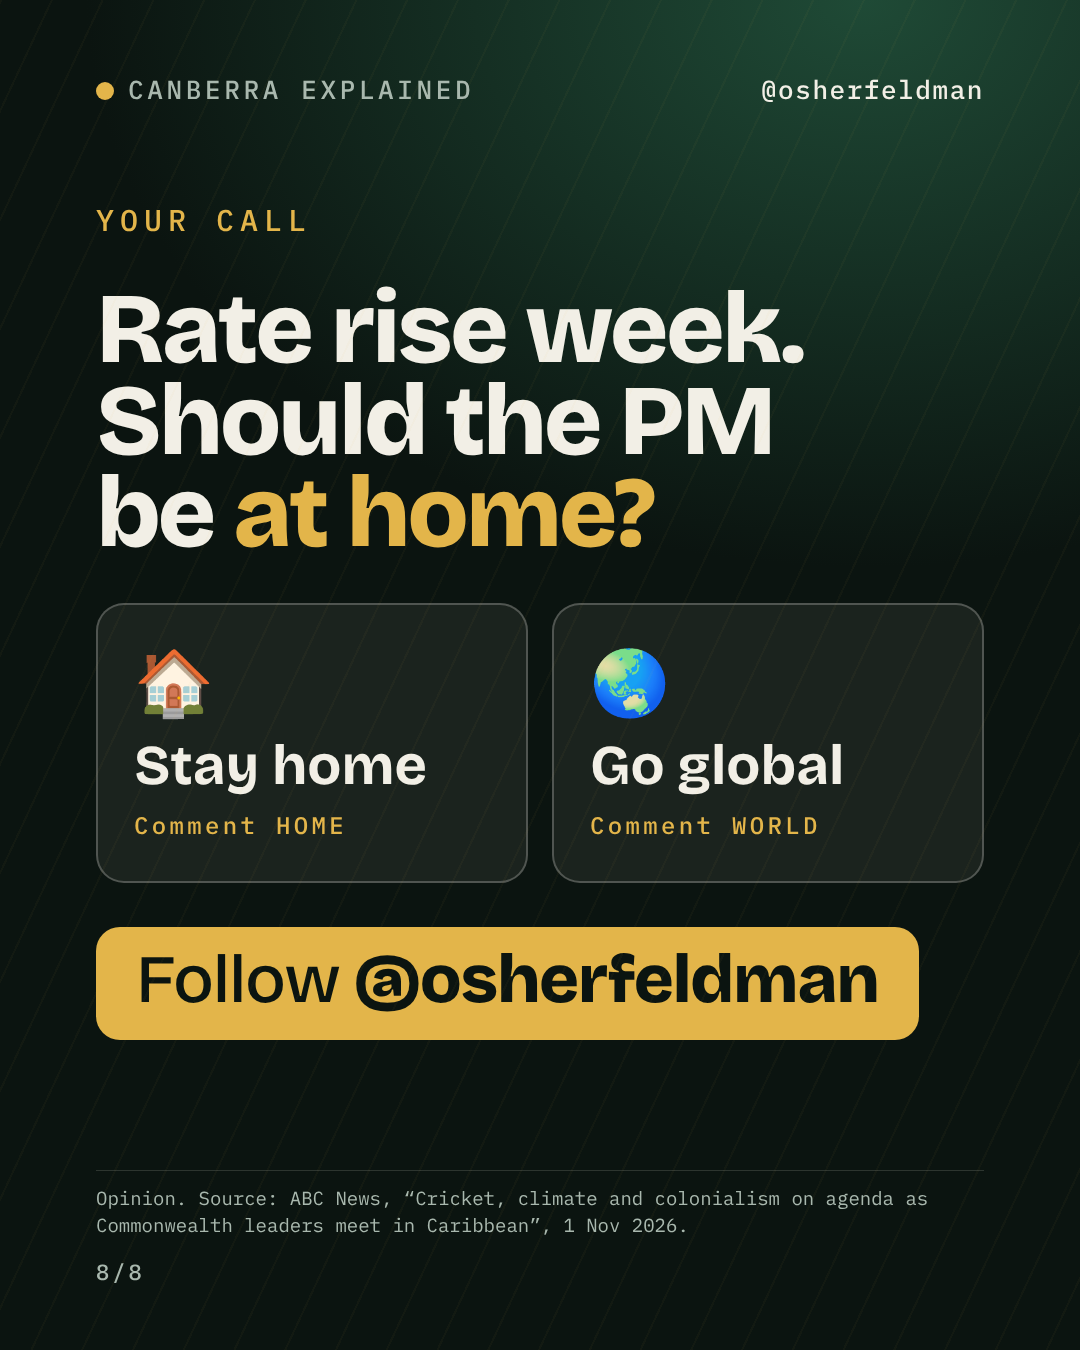
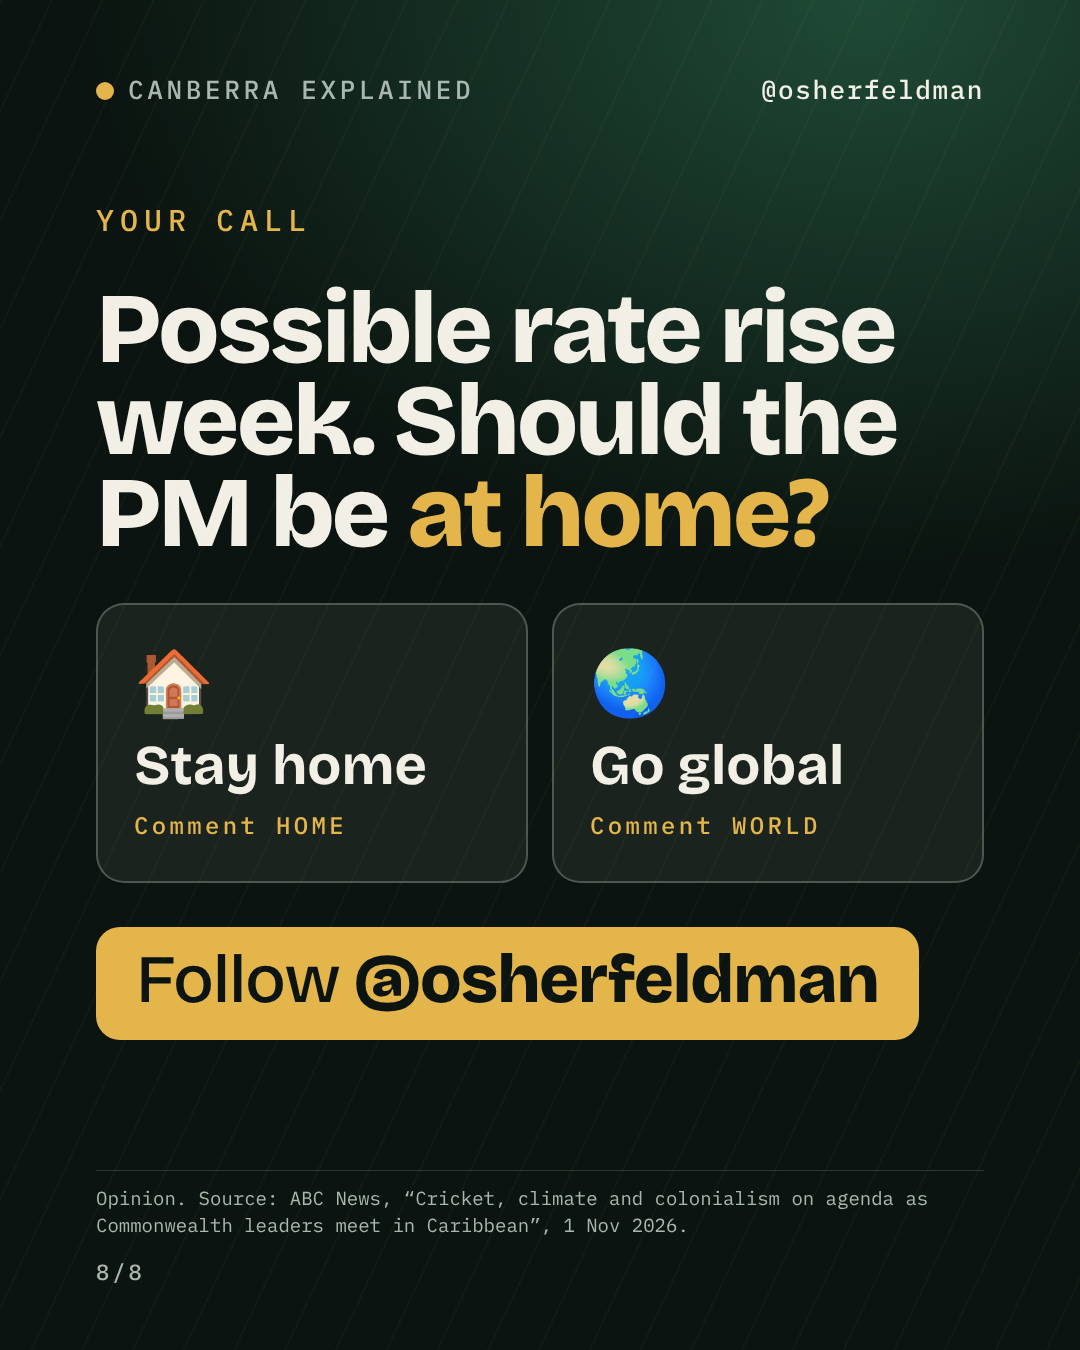
Carousel slide 8: 'Possible rate rise week'
Claude-Session: https://claude.ai/code/session_01Sgrt9V1fmYhj6jZ8Z8u2QD

Changed region(s): [[0.0917, 0.1867, 0.825, 0.4044]]

diff --git a/carousel/build.js b/carousel/build.js
@@ -58,7 +58,7 @@ const slides = [
 // 8 cta
 `<div class="s cta">${chrome(8)}
  <div class="kick">Your call</div>
- <h2>Rate rise week. Should the PM be <em>at home?</em></h2>
+ <h2>Possible rate rise week. Should the PM be <em>at home?</em></h2>
  <div class="vote"><div>🏠 <b>Stay home</b><small>Comment HOME</small></div><div>🌏 <b>Go global</b><small>Comment WORLD</small></div></div>
  <div class="follow"><span>Follow</span> @osherfeldman</div></div>`,
 ];
